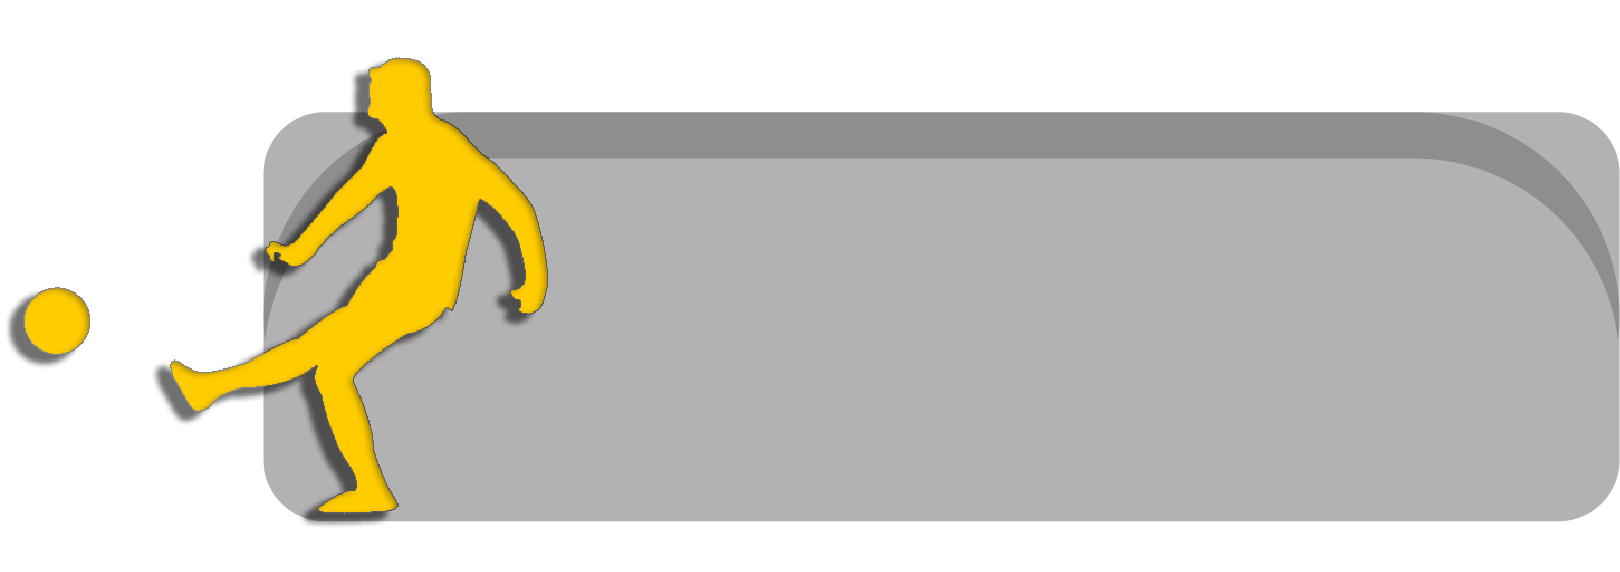
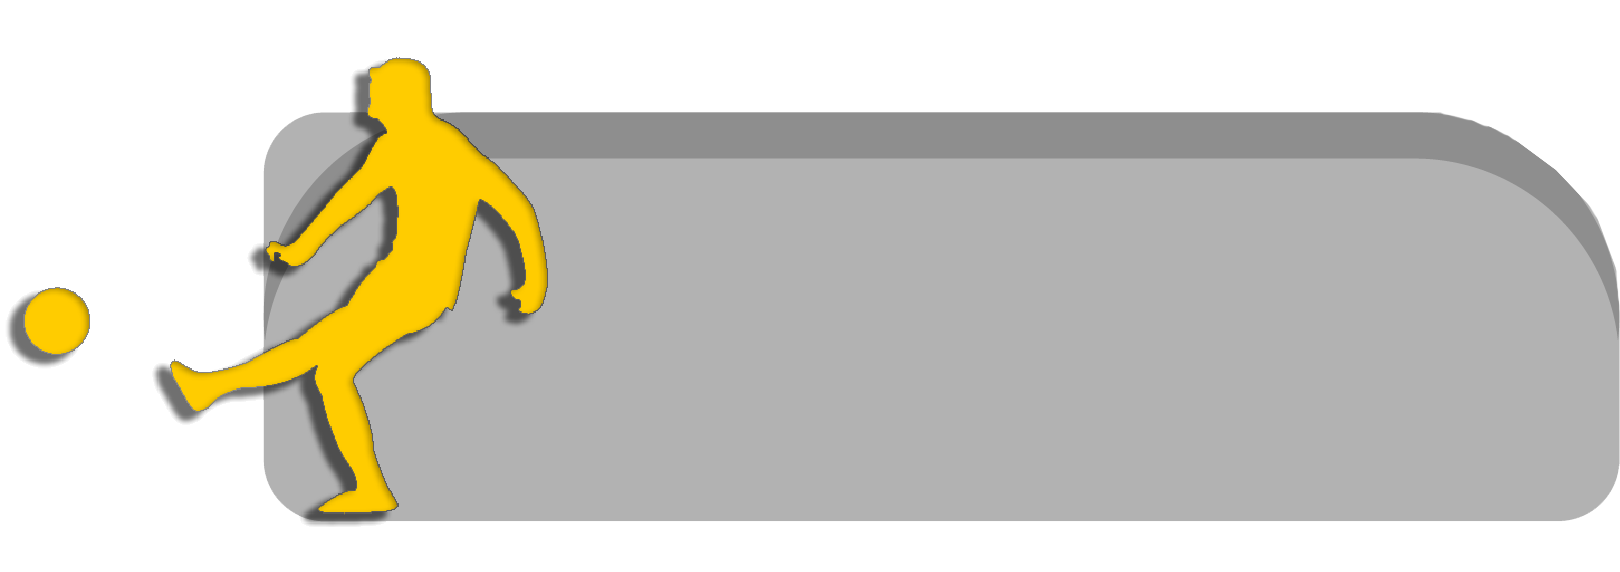
Editing Gameplay UI
Edit Gameplay UI
Add SafeArea Control to the Gameplay UI

Changed region(s): [[0.8951, 0.1783, 1.0, 0.5052]]

diff --git a/Assets/_FootPass_Challenge/Scripts/SafeArea.cs b/Assets/_FootPass_Challenge/Scripts/SafeArea.cs
@@ -1,0 +1,27 @@
+using System.Collections;
+using System.Collections.Generic;
+using UnityEngine;
+
+public class SafeArea : MonoBehaviour
+{
+    RectTransform rectTransform;
+    Rect safeArea;
+    Vector2 minAnchor;
+    Vector2 maxAnchor;
+
+    private void Awake()
+    {
+        rectTransform = GetComponent<RectTransform>();
+        safeArea = Screen.safeArea;
+        minAnchor = safeArea.position;
+        maxAnchor = minAnchor + safeArea.size;
+
+        minAnchor.x /= Screen.width;
+        minAnchor.y /= Screen.height;
+        maxAnchor.x /= Screen.width;
+        maxAnchor.y /= Screen.height;
+
+        rectTransform.anchorMin = minAnchor;
+        rectTransform.anchorMax = maxAnchor;
+    }
+}
